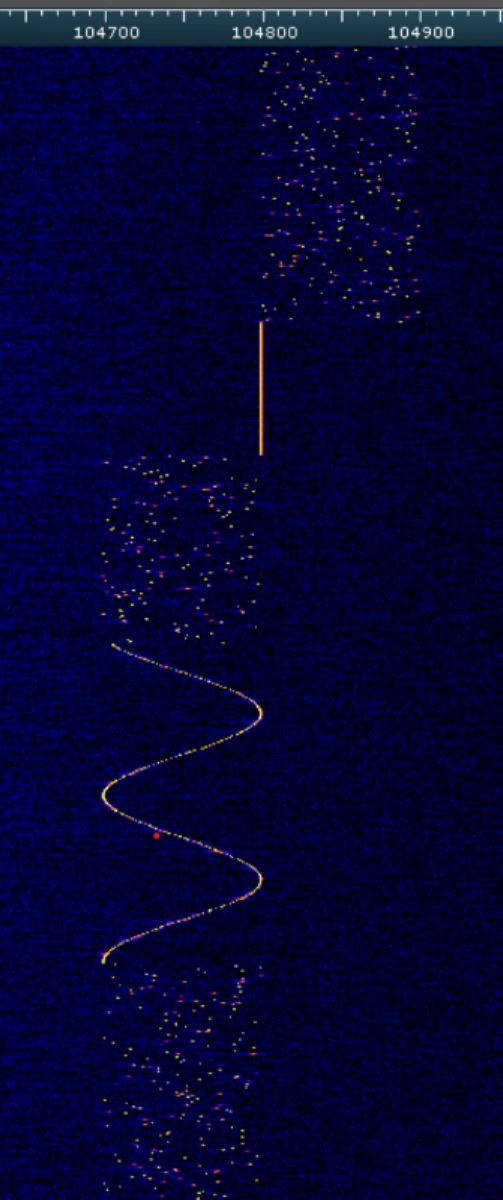
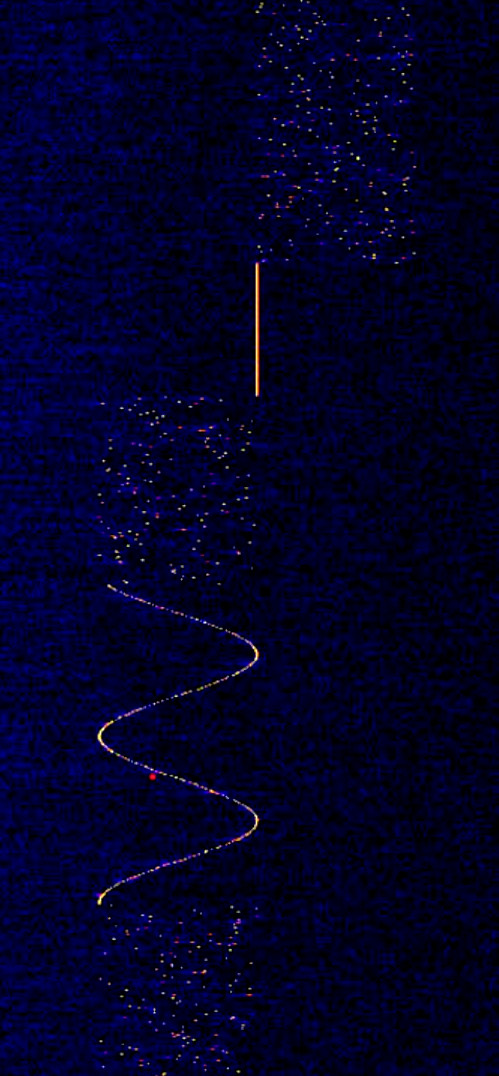
Example cmds, image contrast, datasheet
Add examples of usage of the commands. Improve contrast of the example
images.

Add a link to the datasheet

diff --git a/README.md b/README.md
@@ -60,21 +60,81 @@ Y: Set sigma-delta amplitude         (-1=stop, or: 0-65535)
 Z: Set random frequency modulation   (0=stop, or: -/+____ Hz)
 ```
 
+## Example commands
+Ensure to run the signal generator into a 50 ohm test load. The output can be observed with an oscilloscope, a spectrum analyser or an SDR receiver using appropriate selected RF pickup or RF attenuators. 
+
+Here is an example usage of the commands that can be used from the usb serial terminal:
+
+```console
+#Help menu
+H
+#Set frequency
+F64000000
+#Enable RF
+E
+#Amplitude +5dB
+A3
+#Amplitude -4dBm
+A0
+#Enable linear glide
+G1000
+#Switch frequency
+F63000000
+#Output current settings
+I
+#Switch to exponential glide
+J10000
+#Switch frequency
+F63500000
+#Disable glide
+J0
+#Enable sinewave with 100kHz modulation width
+S100000
+#Switch to triangle modulation with 100kHz modulation width
+O100000
+#Reduce modulation depth to 10kHz
+O10000
+#Switch to linear (sawtooth) modulation
+L100000
+#Switch to stochastic modulation
+Z100000
+#Reduce stochastic modulation to 10kHz bandwidth
+Z10000
+#Switch back to 100kHz sinewave modulation
+S100000
+#Increase the modulation LFO frequency
+X10
+#Observe fast LFO modulations
+X256
+X512
+X1024
+X500
+#Key the RF output with a morse sequence
+M Hello test message
+#Change Morse Code speed
+X8
+#Retest morse key
+M Slower test message
+```
+
+
 # Compilation
 The code is compiled with Visual Studio Code with Platform.IO
 
 The compiled firmware is supplied for use with ST-LINK tools
 
 
-## References
+# References and Acknowledgement
+This project is built upon the great work and the shoulders of others:
 
 + [siggen4351 Arduino Signal Generator using ADF4351](https://github.com/dfannin/siggen4351) by David Fannin
 + [Big Number Arduino Library](https://github.com/nickgammon/BigNumber) by Nick Gammon
 + [bitBangedSPI Lbrary](https://github.com/nickgammon/bitBangedSPI) by Nick Gammon
-+ [ADF4351 Product Page](https://goo.gl/tkMjw6) Analog Devices
 + [SV1AFN ADF4351 Board](https://www.sv1afn.com/adf4351m.html) by Makis Katsouris, SV1AFN
-+ [Schematics of a similar board](https://img.elecbee.com/ic/download/pdf/20190731013337STM32-ADF4351.pdf) Elecbee PCB
-+ [STM32 Bluepill Setup](https://github.com/rpakdel/stm32_bluepill_arduino_prep) Reza Pakdel 
++ [STM32 Bluepill Setup](https://github.com/rpakdel/stm32_bluepill_arduino_prep) by Reza Pakdel
++ [Schematics of a similar board](https://img.elecbee.com/ic/download/pdf/20190731013337STM32-ADF4351.pdf) Elecbee PCB 
++ [ADF4351 Product Page](https://goo.gl/tkMjw6) Analog Devices
++ [ADF4351 Datasheet](https://www.analog.com/media/en/technical-documentation/data-sheets/ADF4351.pdf)  Analog Devices
 
 
 
